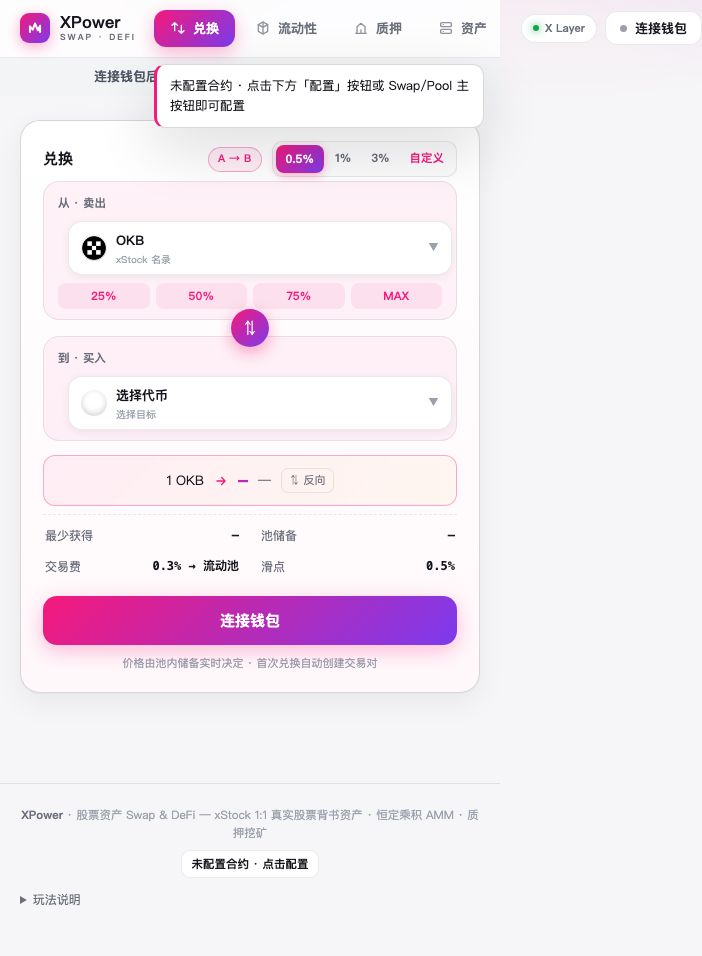
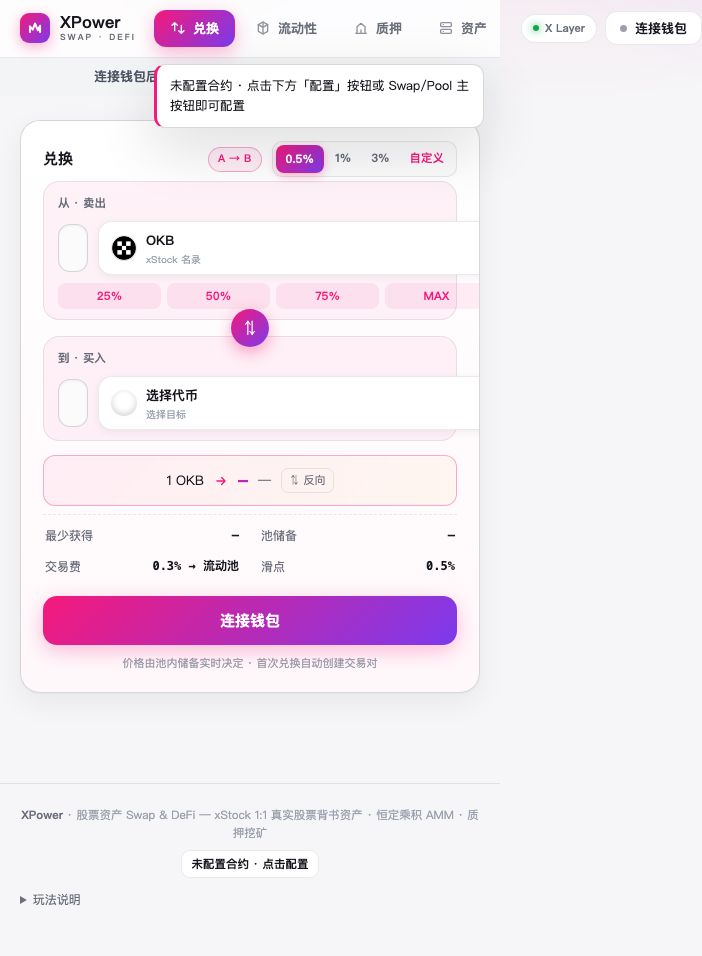
修复兑换页输入框不可见：浅灰底+深边框+内阴影增强对比（元素存在但对比度过低）

diff --git a/XPower Swap DApp.html b/XPower Swap DApp.html
@@ -285,7 +285,9 @@ input[type=text]:focus,input[type=number]:focus,select:focus,textarea:focus{outl
 .amt-head{display:flex;justify-content:space-between;align-items:center;font-size:11.5px;color:var(--dim);font-weight:700}
 .amt-head .bal{color:var(--faint);font-weight:600;font-size:11px}
 .amt-body{display:flex;align-items:center;gap:10px}
-.amt-body input{flex:1;min-width:0;border:none!important;background:transparent;font-size:22px!important;font-weight:900;font-family:var(--mono);outline:none;color:var(--fg);letter-spacing:-.5px;padding:0}
+.amt-body input{flex:1 1 auto;min-width:0;width:auto;max-width:none;background:var(--card2);border:1.5px solid var(--line2)!important;border-radius:12px;font-size:22px!important;font-weight:900;font-family:var(--mono);outline:none;color:var(--fg);letter-spacing:-.5px;padding:10px 14px;height:48px;box-sizing:border-box;transition:border-color .15s,box-shadow .15s;box-shadow:inset 0 1px 3px rgba(20,20,43,.05)}
+.amt-body input:focus{border-color:var(--acc-line)!important;box-shadow:0 0 0 3px rgba(245,25,123,.1)}
+.amt-body input::placeholder{color:var(--faint)}
 .amt-body .tokbtn{flex-shrink:0;border:1px solid var(--line);background:var(--card);border-radius:14px;padding:7px 12px;box-shadow:0 2px 8px rgba(20,20,43,.06);min-width:118px}
 .amt-body .tokbtn:hover{border-color:var(--acc-line)}
 .amt-body .tokbtn .lg{width:26px;height:26px;font-size:11px}
